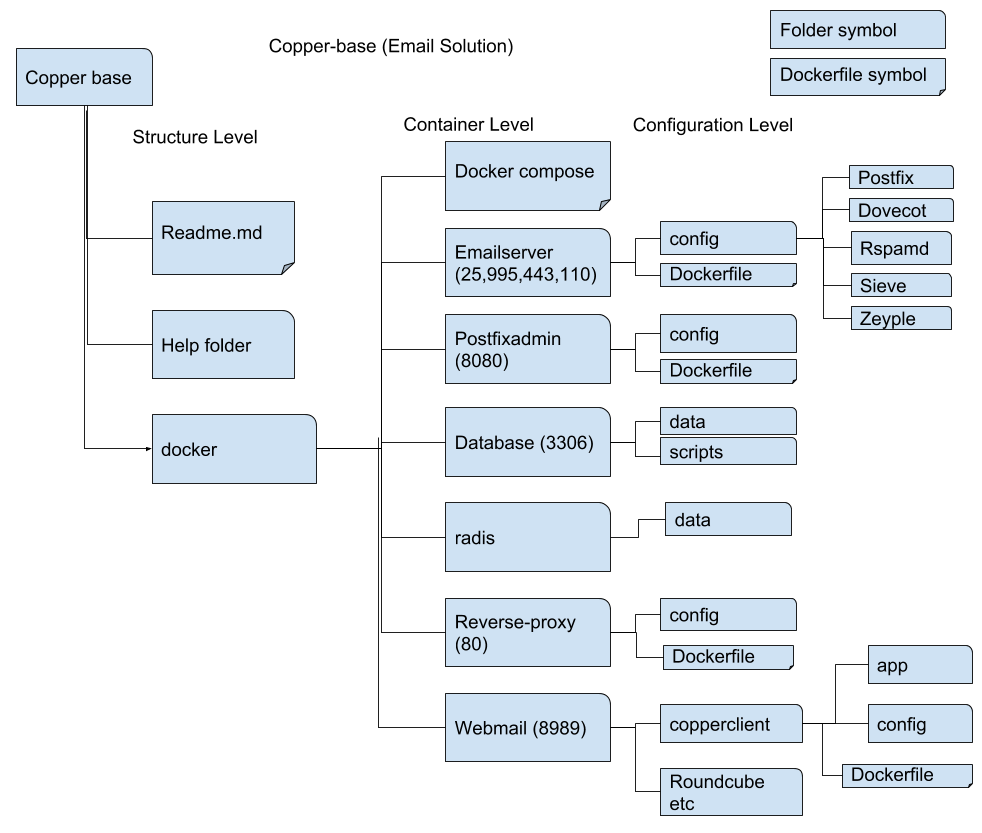
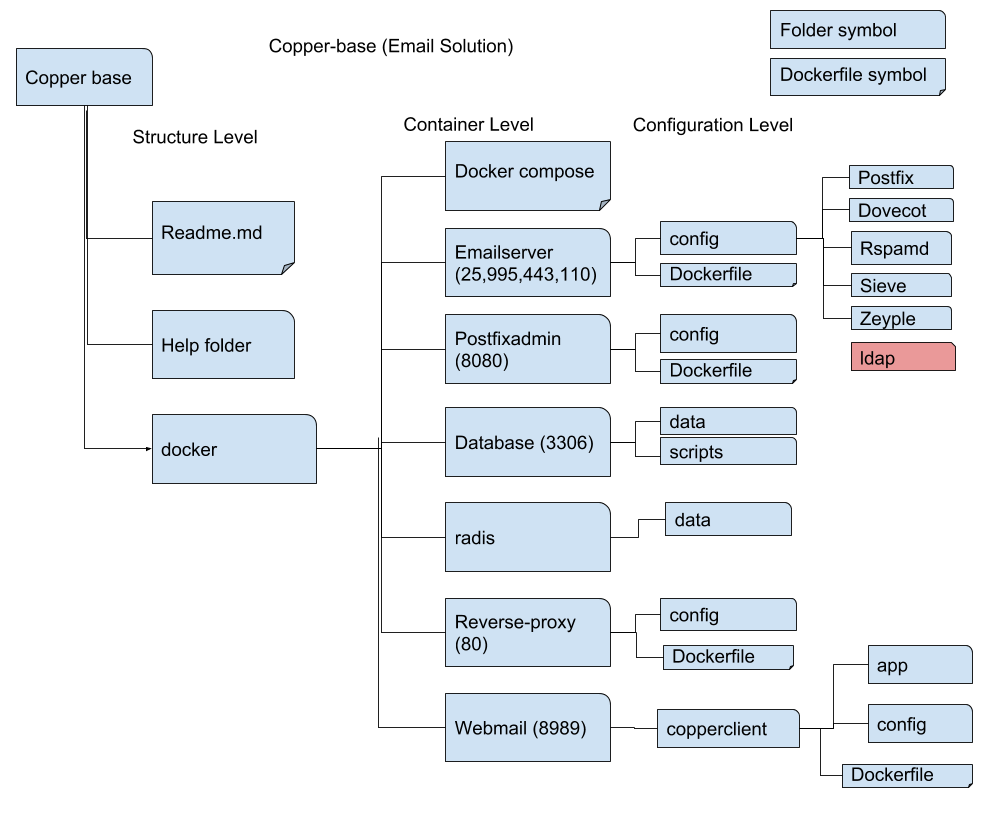
change in architecture

Changed region(s): [[0.6415, 0.8427, 0.8248, 0.9988], [0.8554, 0.4058, 0.9776, 0.4682]]

diff --git a/index.html b/index.html
@@ -1,6 +1,18 @@
 <html>
     <title> Project Progress</title>
 
+<pre>
+    This email solution is under development to make email server implementation 
+    is so simple, secured and with following advantages.
+
+    1. Common controll architecture for all deployments.
+    2. Security Key management functions
+    3. Centralized Monitoring facility
+    4. LDAP introgration factility
+
+
+</pre>
+
 <img src="docker-architectuure.png">
 
 <pre>
@@ -12,6 +24,16 @@ Basic architecture is completed now it includes following componenets.
 3. Rspamd
 4. Postfixadmin
 5. Rainloop
+
+Other included componenets to the copperbase solution
+
+1. sieve
+2. zeyple
+
+Services to be intrograted with the copperbase
+
+1. ldap
+
 
 
 </pre>
